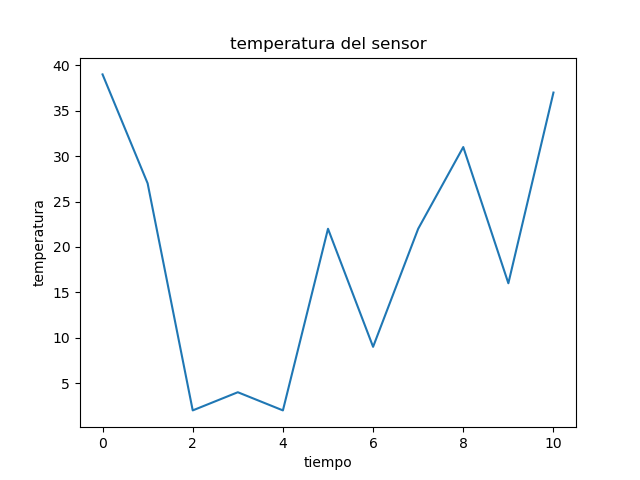
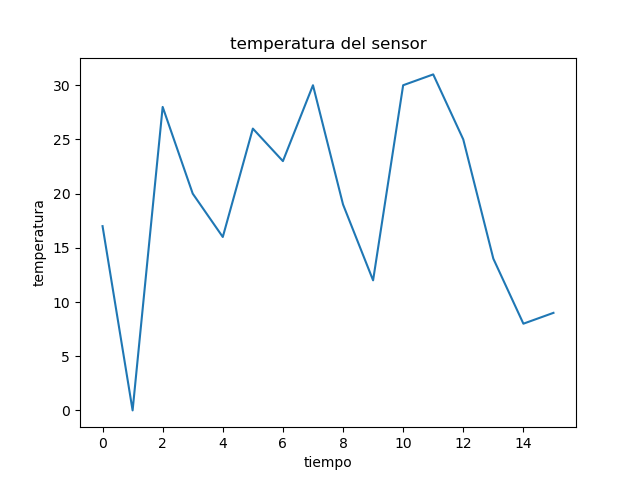
pequeñas mejoras

diff --git a/README.md b/README.md
@@ -1,33 +1,65 @@
-# practica1-so
-# Práctica 1 - Sistemas Operativos
+# Práctica 1 - Sistemas Operativos  
+## Captura y visualización de datos con Bash y Python
 
-Automatización con Bash y Python para captura y visualización de datos MQTT.
+### Descripcion
 
-## Autor
-Nombre Apellidos
+En esta practica hemos desarrollado un sistema para la captura, almacenamiento y visualizacion de datos de sensores.
 
-## Descripción
-Este proyecto automatiza la captura de datos desde un broker MQTT,
-almacena la salida en un archivo log y posteriormente genera gráficas
-mediante un script Python.
+Se utiliza un script Bash para capturar datos y gestionar procesos, y un script Python para analizar los datos almacenados y generar representaciones graficas.
 
-## Estructura del proyecto
+El flujo de funcionamiento del sistema es el siguiente:
 
-- capture_mqtt.sh → Script Bash principal
-- plot_mqtt.py → Script Python para análisis y gráficas
-- mqtt_capture.log → Archivo de captura
-- plots/ → Carpeta de gráficas generadas
+1. El usuario ejecuta el script Bash.
+2. El script genera datos simulados de sensores en formato JSON.
+3. Los datos se almacenan en un archivo de log.
+4. Tras finalizar el tiempo de captura, el script ejecuta un programa Python.
+5. Python procesa los datos y genera una grafica de temperatura.
 
-## Requisitos
+---
 
-- Bash
-- Python 3
-- Librerías Python:
-  - matplotlib
-  - json
-  - re
+## Estructura del proyecto (dibujada con chatgpt)
 
-Instalación:
+```
+practica1-so/
+│
+├── capture_mqtt.sh      # Script Bash para capturar datos
+├── plot_mqtt.py         # Script Python para analizar datos
+├── mqtt_capture.log     # Archivo de log generado
+├── README.md
+├── informe.pdf
+│
+└── plots/
+    └── temperatura.png  # Gráfica generada
+```
 
-```bash
-pip install matplotlib
+---
+
+## Ejecucion del programa
+
+Dar permisos al script Bash:
+
+```
+chmod +x capture_mqtt.sh
+```
+
+Ejecutar el script:
+
+```
+./capture_mqtt.sh
+```
+
+El sistema solicita el tiempo de captura en segundos.
+
+Al finalizar el proceso se genera:
+
+- Archivo `mqtt_capture.log`
+- Grafica `plots/temperatura.png`
+- Visualizacion ASCII en la terminal
+
+---
+
+## Autores
+
+- Lucía Castellanos Paz  
+- Ander Zuazquita Pastor
+
